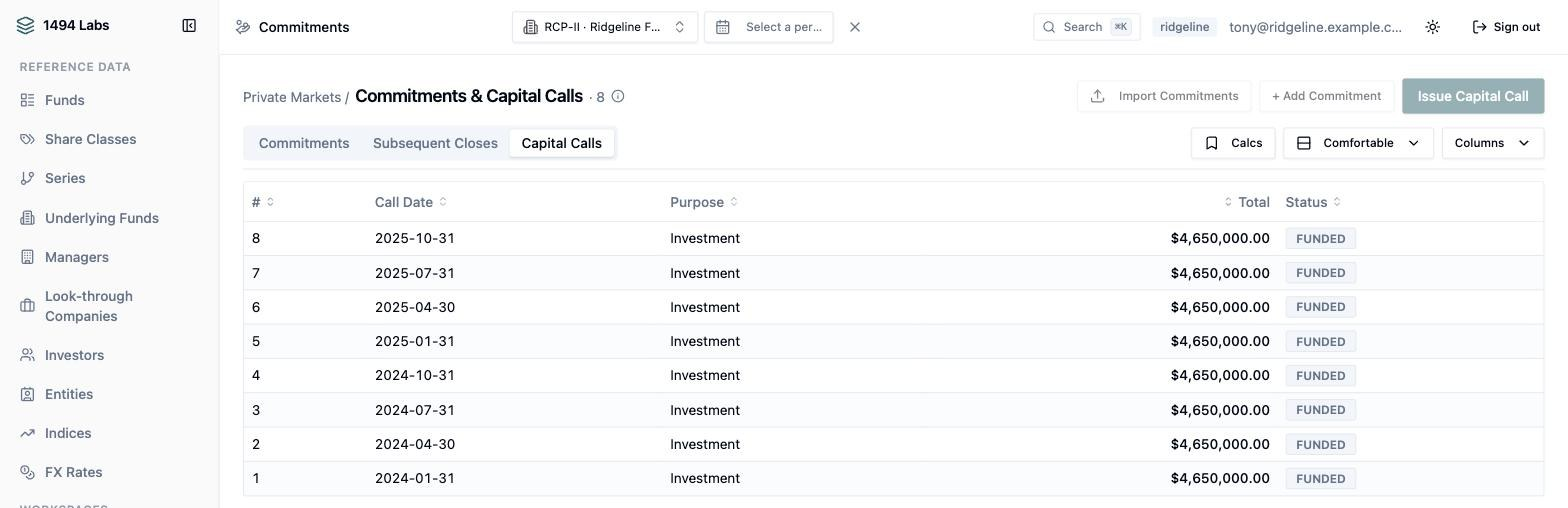
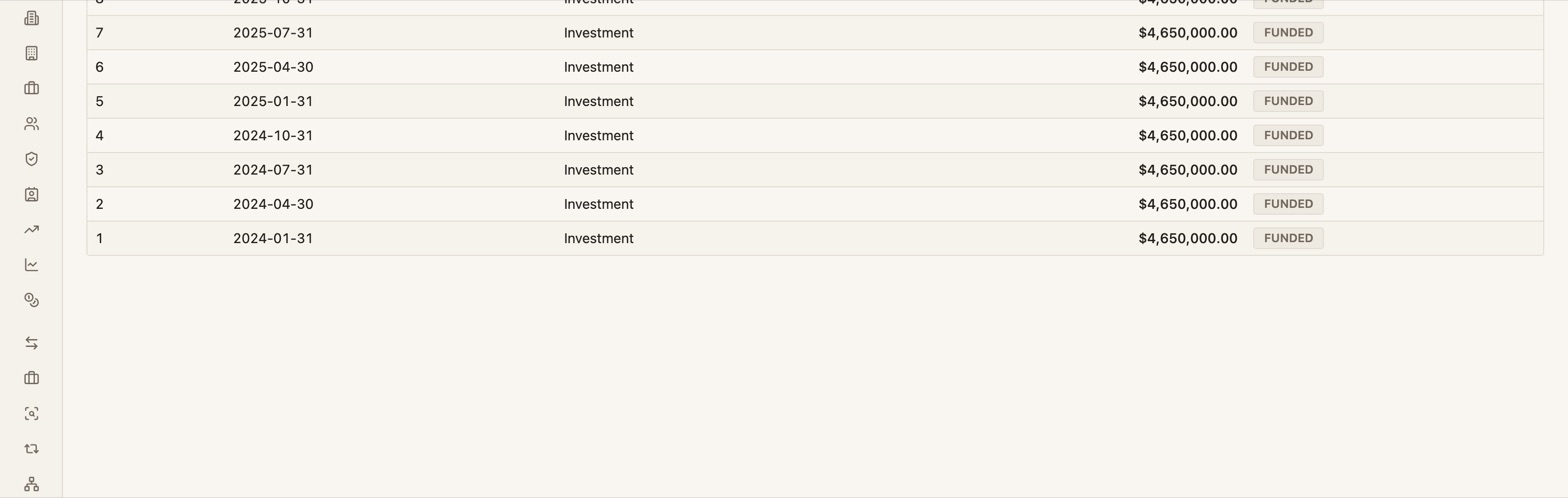
Re-shoot the four private-markets screenshots: the demo tenant was named after a real vendor
The tenant behind shots 07-10 carried the name of a real investment-accounting
software vendor, so this page had been showing a competitor's name as if it
were a customer since 2026-08-26 - in the tenant chip, the account menu and the
fund picker, three independent leaks per image.

Re-shot from the renamed tenant with an anonymous login. Every figure reads the
same numbers it did before - $46.5m committed, $37.2m called, $9.3m uncalled,
eight quarterly calls of $4,650,000 all funded, five commitments active - so no
caption or alt text changed, only the images and their heights.

Found by following a search result: asked to explain this company's own origin
story, Google's AI Mode cited the other vendor's article.

diff --git a/index.html b/index.html
@@ -670,7 +670,7 @@ footer.site{border-top:1px solid var(--rule);padding:34px 0 56px;margin-top:clam
     </p>
 
     <figure class="shot">
-      <img src="/assets/screens/capital-accounts.jpg" width="1568" height="664"
+      <img src="/assets/screens/capital-accounts.jpg" width="1568" height="823"
            loading="lazy" decoding="async"
            alt="Capital accounts for a drawdown fund: $46.5m committed, $37.2m called, $9.3m uncalled, with per-LP rows and a stated recycling policy.">
       <figcaption>
@@ -698,7 +698,7 @@ footer.site{border-top:1px solid var(--rule);padding:34px 0 56px;margin-top:clam
 
     <div class="shots">
       <figure class="shot">
-        <img src="/assets/screens/capital-calls.jpg" width="1568" height="508"
+        <img src="/assets/screens/capital-calls.jpg" width="1568" height="498"
              loading="lazy" decoding="async"
              alt="Eight quarterly capital calls of $4,650,000 each, every one marked FUNDED.">
         <figcaption>
@@ -708,7 +708,7 @@ footer.site{border-top:1px solid var(--rule);padding:34px 0 56px;margin-top:clam
         </figcaption>
       </figure>
       <figure class="shot">
-        <img src="/assets/screens/commitments.jpg" width="1568" height="460"
+        <img src="/assets/screens/commitments.jpg" width="1568" height="443"
              loading="lazy" decoding="async"
              alt="Five LP commitments struck at a first close, each ACTIVE, with commitment amounts and dates.">
         <figcaption>
@@ -718,7 +718,7 @@ footer.site{border-top:1px solid var(--rule);padding:34px 0 56px;margin-top:clam
         </figcaption>
       </figure>
       <figure class="shot">
-        <img src="/assets/screens/dashboard-drawdown.jpg" width="1568" height="566"
+        <img src="/assets/screens/dashboard-drawdown.jpg" width="1568" height="921"
              loading="lazy" decoding="async"
              alt="A drawdown fund dashboard showing NAV, committed, called, distributed, position value and fees accrued.">
         <figcaption>
